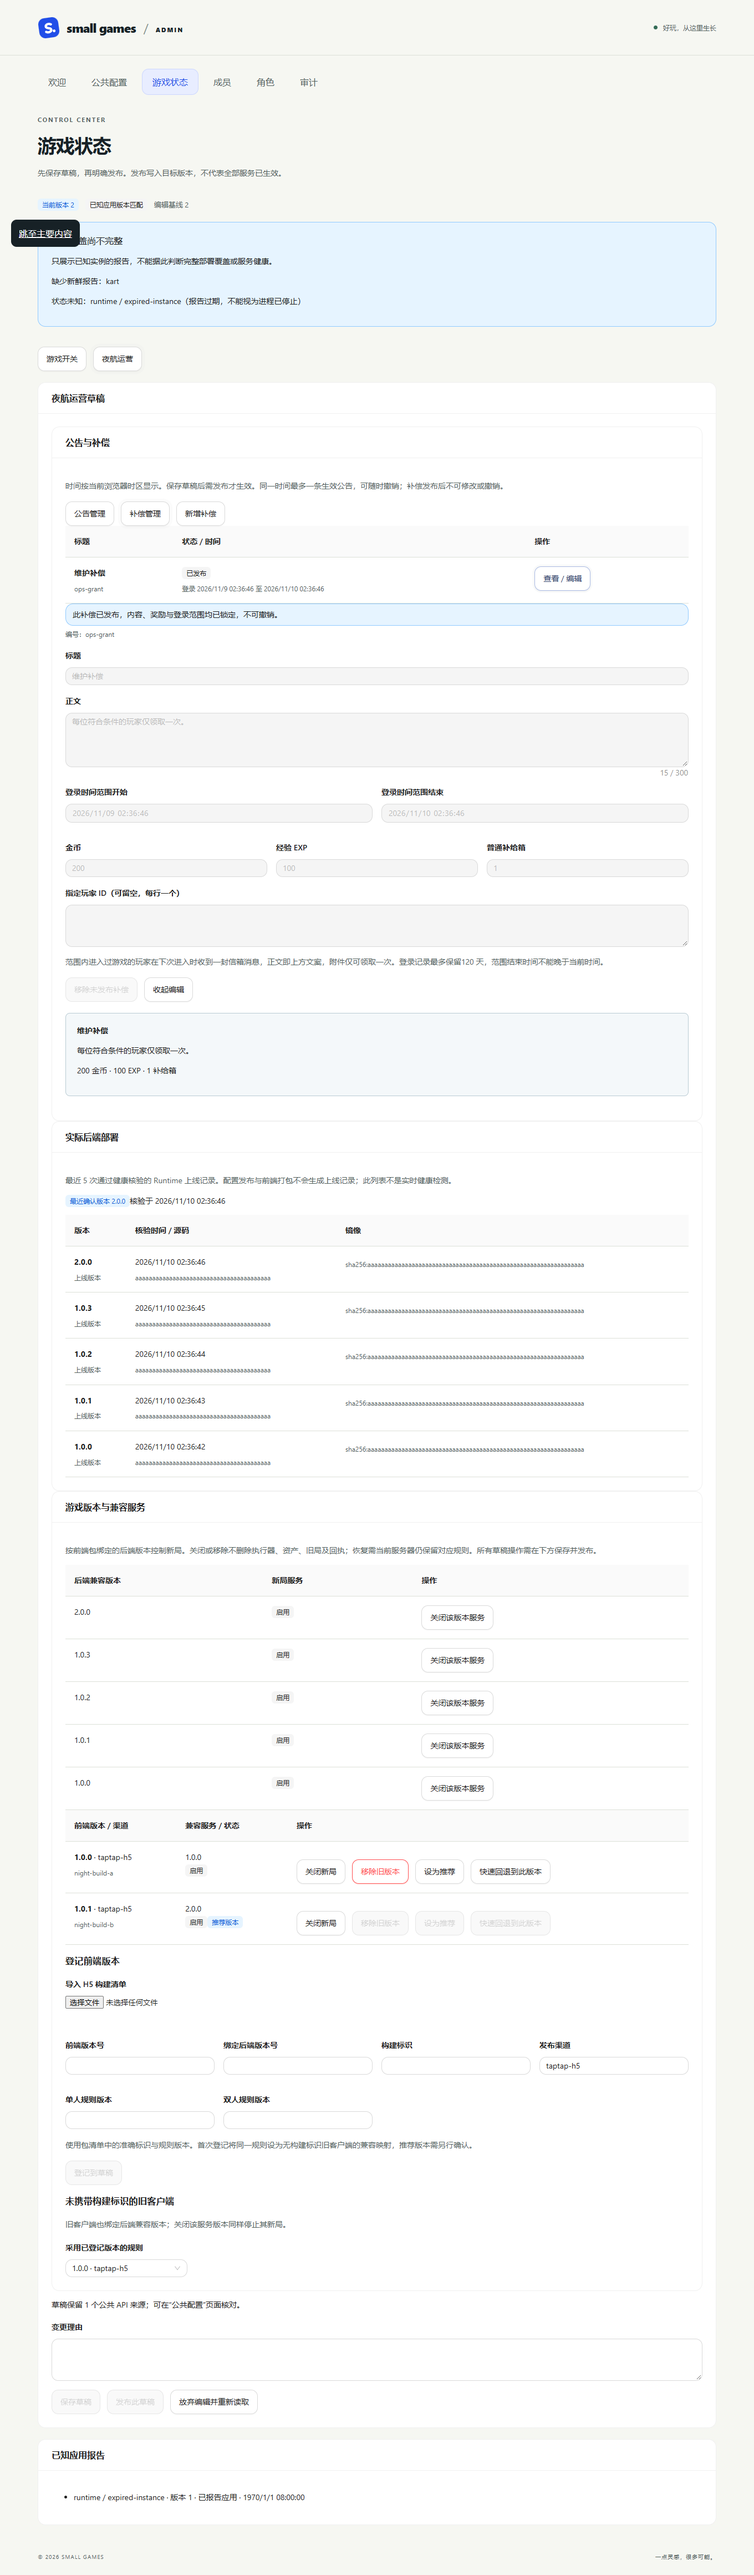
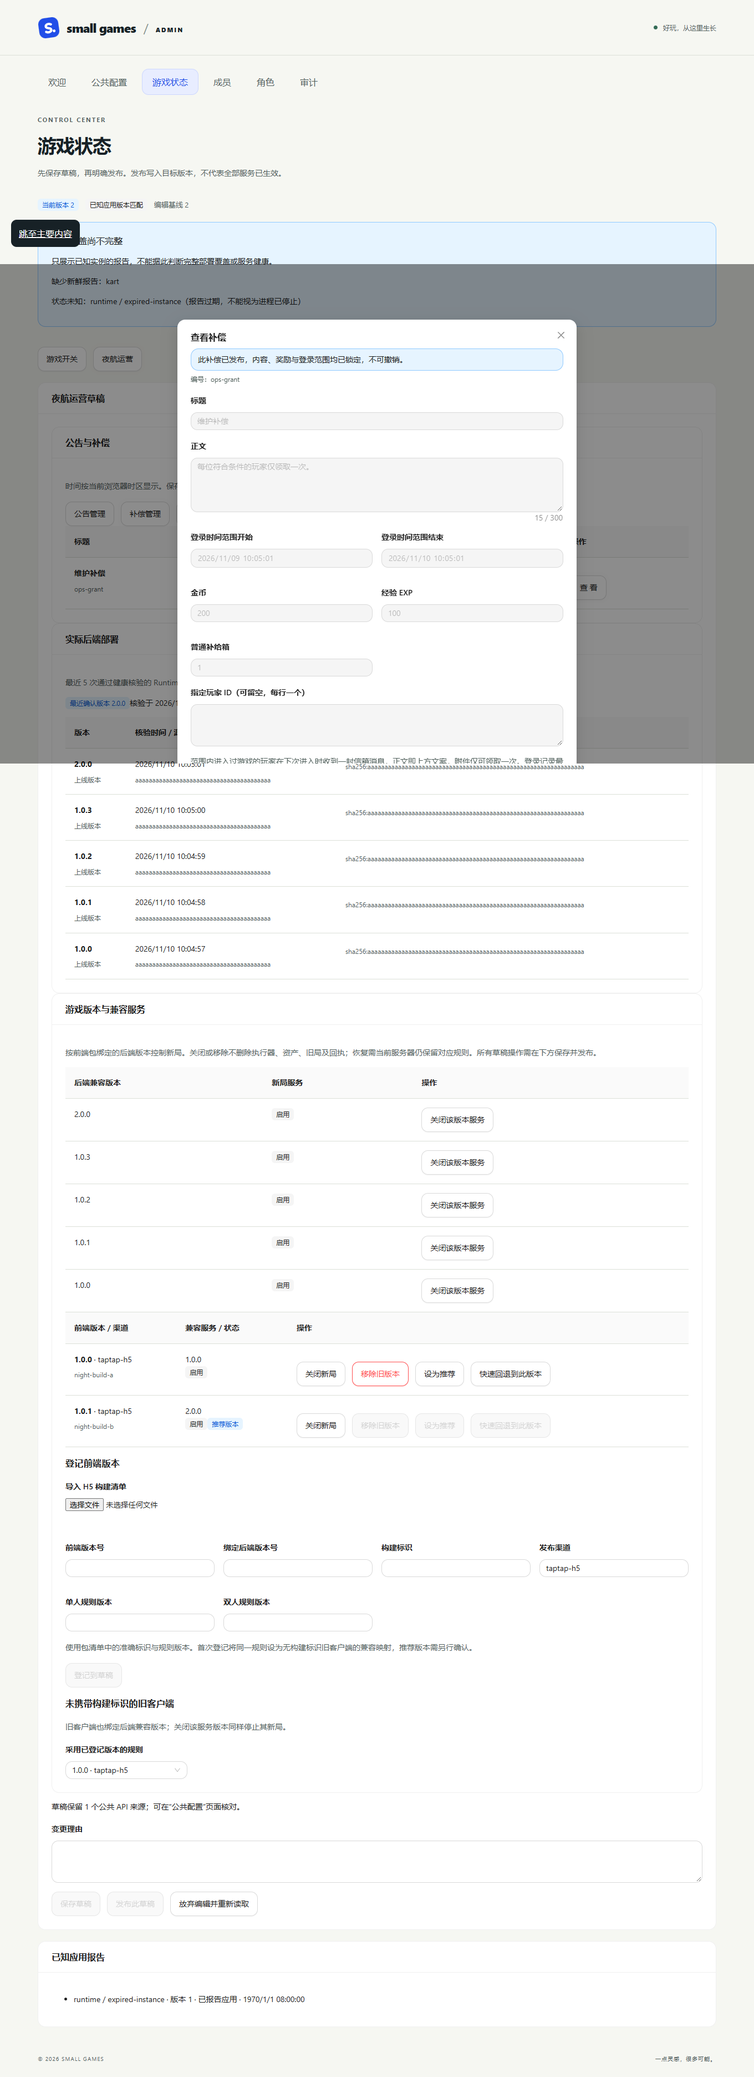
feat(admin-web): 公告与补偿改用弹窗新增/编辑/查看，补偿草稿可删除
- 公告、补偿的新增、编辑、查看统一在弹窗中进行；已发布补偿弹窗只读且不提供删除
- 列表行直接提供“删除草稿/删除公告”，未发布补偿草稿可删除
- 弹窗原位渲染以跳过 rc-dialog 无 nonce 的滚动锁样式，保持严格 CSP
- 浏览器验收覆盖弹窗开关、草稿删除与已发布补偿只读

验证：后管实际 Caddy+Chromium 全套（1360/390/320、CSP/nonce）通过。

diff --git a/apps/admin-web/src/night-messages-editor.tsx b/apps/admin-web/src/night-messages-editor.tsx
@@ -1,5 +1,5 @@
 import { useState } from 'react';
-import { Alert, Card, Input, InputNumber, Tag } from 'antd';
+import { Alert, Card, Input, InputNumber, Modal, Tag } from 'antd';
 import { ActionButton as Button, DataTable as Table } from './control-common';
 import { dateLabel } from './control-api';
 import {
@@ -193,139 +193,168 @@ export function NightMessagesEditor({
               title: '操作',
               key: 'actions',
               render: (_, row) => (
-                <Button
-                  onClick={() => {
-                    setSelectedId(row.id);
-                    setPlayersText(
-                      'playerIds' in row
-                        ? ((row as NightCompensation).playerIds?.join('\n') ?? '')
-                        : '',
-                    );
-                  }}
-                >
-                  查看 / 编辑
-                </Button>
+                <div className="control-actions">
+                  <Button
+                    onClick={() => {
+                      setSelectedId(row.id);
+                      setPlayersText(
+                        'playerIds' in row
+                          ? ((row as NightCompensation).playerIds?.join('\n') ?? '')
+                          : '',
+                      );
+                    }}
+                  >
+                    {'reward' in row && publishedIds.has(row.id) ? '查看' : '查看 / 编辑'}
+                  </Button>
+                  {!('reward' in row && publishedIds.has(row.id)) && (
+                    <Button
+                      danger
+                      disabled={disabled}
+                      onClick={() =>
+                        change({ ...operations, [kind]: entries.filter((e) => e.id !== row.id) })
+                      }
+                    >
+                      {'reward' in row ? '删除草稿' : '删除公告'}
+                    </Button>
+                  )}
+                </div>
               ),
             },
           ]}
         />
       </div>
-      {selected && (
-        <section aria-label="消息编辑">
-          {locked && (
-            <Alert type="info" title="此补偿已发布，内容、奖励与登录范围均已锁定，不可撤销。" />
-          )}
-          <MessageFields value={selected} disabled={disabled || locked} change={edit} />
-          {announcement && (
-            <>
-              <div className="operation-fields">
-                <TimeField
-                  id={'start-' + announcement.id}
-                  label="生效时间"
-                  value={announcement.startsAt}
-                  disabled={disabled}
-                  change={(t) => edit({ startsAt: t ?? NaN })}
+      <Modal
+        open={!!selected}
+        title={compensation ? (locked ? '查看补偿' : '编辑补偿') : '编辑公告'}
+        width={720}
+        destroyOnHidden
+        // Rendering in place skips rc-dialog's body scroll lock, whose injected style has no CSP nonce.
+        getContainer={false}
+        onCancel={() => setSelectedId('')}
+        footer={<Button onClick={() => setSelectedId('')}>完成</Button>}
+      >
+        {selected && (
+          <section aria-label="消息编辑">
+            {locked && (
+              <Alert type="info" title="此补偿已发布，内容、奖励与登录范围均已锁定，不可撤销。" />
+            )}
+            <MessageFields value={selected} disabled={disabled || locked} change={edit} />
+            {announcement && (
+              <>
+                <div className="operation-fields">
+                  <TimeField
+                    id={'start-' + announcement.id}
+                    label="生效时间"
+                    value={announcement.startsAt}
+                    disabled={disabled}
+                    change={(t) => edit({ startsAt: t ?? NaN })}
+                  />
+                  <TimeField
+                    id={'end-' + announcement.id}
+                    label="失效时间（可留空）"
+                    value={announcement.endsAt}
+                    disabled={disabled}
+                    change={(t) => edit({ endsAt: t })}
+                  />
+                </div>
+                <div className="control-actions">
+                  <Button
+                    disabled={disabled}
+                    onClick={() => edit({ enabled: !announcement.enabled })}
+                  >
+                    {announcement.enabled ? '撤销公告' : '恢复公告'}
+                  </Button>
+                </div>
+              </>
+            )}
+            {compensation && (
+              <>
+                <div className="operation-fields">
+                  <TimeField
+                    id="login-from"
+                    label="登录时间范围开始"
+                    value={compensation.loginFrom}
+                    disabled={disabled || locked}
+                    change={(t) => edit({ loginFrom: t ?? NaN })}
+                  />
+                  <TimeField
+                    id="login-to"
+                    label="登录时间范围结束"
+                    value={compensation.loginTo}
+                    disabled={disabled || locked}
+                    change={(t) => edit({ loginTo: t ?? NaN })}
+                  />
+                </div>
+                <div className="operation-fields">
+                  {(['coins', 'xp', 'packs'] as const).map((key, i) => (
+                    <div key={key}>
+                      <label htmlFor={'reward-' + key}>
+                        {['金币', '经验 EXP', '普通补给箱'][i]}
+                      </label>
+                      <InputNumber
+                        id={'reward-' + key}
+                        aria-label={['补偿金币', '补偿经验', '补偿补给箱'][i]}
+                        value={compensation.reward[key]}
+                        min={0}
+                        max={key === 'packs' ? 1000 : 1000000}
+                        precision={0}
+                        disabled={disabled || locked}
+                        onChange={(n) =>
+                          edit({ reward: { ...compensation.reward, [key]: n ?? 0 } })
+                        }
+                      />
+                    </div>
+                  ))}
+                </div>
+                <label htmlFor="compensation-players">指定玩家 ID（可留空，每行一个）</label>
+                <Input.TextArea
+                  id="compensation-players"
+                  aria-label="指定玩家 ID"
+                  rows={3}
+                  value={playersText}
+                  disabled={disabled || locked}
+                  onChange={(e) => {
+                    setPlayersText(e.target.value);
+                    edit({
+                      playerIds: e.target.value.trim()
+                        ? e.target.value.trim().split(/\s+/)
+                        : undefined,
+                    });
+                  }}
                 />
-                <TimeField
-                  id={'end-' + announcement.id}
-                  label="失效时间（可留空）"
-                  value={announcement.endsAt}
-                  disabled={disabled}
-                  change={(t) => edit({ endsAt: t })}
-                />
-              </div>
+                <p className="control-help">
+                  范围内进入过游戏的玩家在下次进入时收到一封信箱消息，正文即上方文案，附件仅可领取一次。登录记录最多保留
+                  {LOGIN_RETENTION_DAYS} 天，范围结束时间不能晚于当前时间。
+                </p>
+              </>
+            )}
+            {!locked && (
               <div className="control-actions">
                 <Button
+                  danger
                   disabled={disabled}
-                  onClick={() => edit({ enabled: !announcement.enabled })}
+                  onClick={() => {
+                    change({ ...operations, [kind]: entries.filter((e) => e.id !== selected.id) });
+                    setSelectedId('');
+                  }}
                 >
-                  {announcement.enabled ? '撤销公告' : '恢复公告'}
+                  {compensation ? '删除草稿' : '删除公告'}
                 </Button>
               </div>
-            </>
-          )}
-          {compensation && (
-            <>
-              <div className="operation-fields">
-                <TimeField
-                  id="login-from"
-                  label="登录时间范围开始"
-                  value={compensation.loginFrom}
-                  disabled={disabled || locked}
-                  change={(t) => edit({ loginFrom: t ?? NaN })}
-                />
-                <TimeField
-                  id="login-to"
-                  label="登录时间范围结束"
-                  value={compensation.loginTo}
-                  disabled={disabled || locked}
-                  change={(t) => edit({ loginTo: t ?? NaN })}
-                />
-              </div>
-              <div className="operation-fields">
-                {(['coins', 'xp', 'packs'] as const).map((key, i) => (
-                  <div key={key}>
-                    <label htmlFor={'reward-' + key}>{['金币', '经验 EXP', '普通补给箱'][i]}</label>
-                    <InputNumber
-                      id={'reward-' + key}
-                      aria-label={['补偿金币', '补偿经验', '补偿补给箱'][i]}
-                      value={compensation.reward[key]}
-                      min={0}
-                      max={key === 'packs' ? 1000 : 1000000}
-                      precision={0}
-                      disabled={disabled || locked}
-                      onChange={(n) => edit({ reward: { ...compensation.reward, [key]: n ?? 0 } })}
-                    />
-                  </div>
-                ))}
-              </div>
-              <label htmlFor="compensation-players">指定玩家 ID（可留空，每行一个）</label>
-              <Input.TextArea
-                id="compensation-players"
-                aria-label="指定玩家 ID"
-                rows={3}
-                value={playersText}
-                disabled={disabled || locked}
-                onChange={(e) => {
-                  setPlayersText(e.target.value);
-                  edit({
-                    playerIds: e.target.value.trim()
-                      ? e.target.value.trim().split(/\s+/)
-                      : undefined,
-                  });
-                }}
-              />
-              <p className="control-help">
-                范围内进入过游戏的玩家在下次进入时收到一封信箱消息，正文即上方文案，附件仅可领取一次。登录记录最多保留
-                {LOGIN_RETENTION_DAYS} 天，范围结束时间不能晚于当前时间。
-              </p>
-            </>
-          )}
-          <div className="control-actions">
-            <Button
-              danger
-              disabled={disabled || locked}
-              onClick={() => {
-                change({ ...operations, [kind]: entries.filter((e) => e.id !== selected.id) });
-                setSelectedId('');
-              }}
-            >
-              {compensation ? '移除未发布补偿' : '移除公告'}
-            </Button>
-            <Button onClick={() => setSelectedId('')}>收起编辑</Button>
-          </div>
-          <div className="operation-preview" aria-label="玩家消息预览">
-            <strong>{selected.title || '标题预览'}</strong>
-            <p>{selected.body || '正文预览'}</p>
-            {compensation && (
-              <p>
-                {compensation.reward.coins} 金币 · {compensation.reward.xp} EXP ·{' '}
-                {compensation.reward.packs} 补给箱
-              </p>
             )}
-          </div>
-        </section>
-      )}
+            <div className="operation-preview" aria-label="玩家消息预览">
+              <strong>{selected.title || '标题预览'}</strong>
+              <p>{selected.body || '正文预览'}</p>
+              {compensation && (
+                <p>
+                  {compensation.reward.coins} 金币 · {compensation.reward.xp} EXP ·{' '}
+                  {compensation.reward.packs} 补给箱
+                </p>
+              )}
+            </div>
+          </section>
+        )}
+      </Modal>
     </Card>
   );
 }
